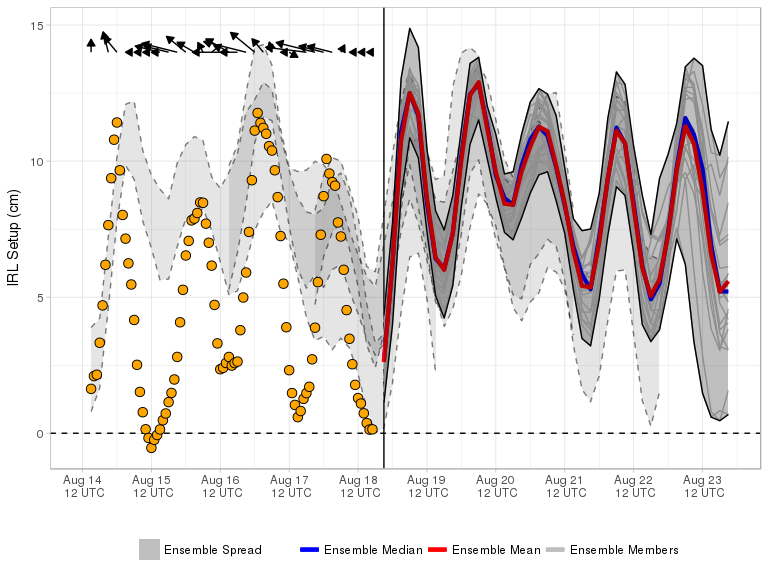
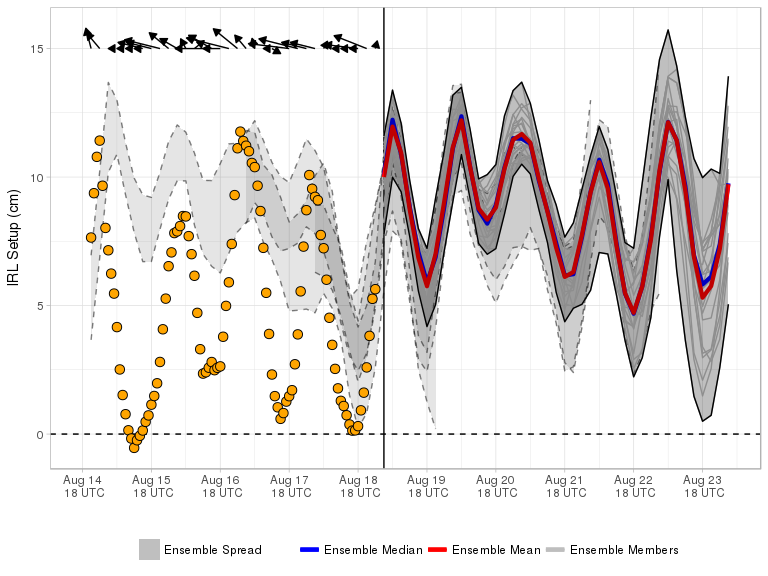
Forecast Update

diff --git a/docs/index.md b/docs/index.md
@@ -1,9 +1,9 @@
-Current Forecast 2018-08-18, Cycle 12 UTC
+Current Forecast 2018-08-18, Cycle 18 UTC
 -----------------------------------------
 
 [![](img/raw_setup.png)](https://fit-winds.github.io/IRLSetup/img/raw_setup.png)
 
-> Forecast valid 2018-08-18 14:21:54.
+> Forecast valid 2018-08-18 20:23:26.
 
 Explanation
 -----------
@@ -23,7 +23,7 @@ Ensemble Forecast System
 cycles. Calculation of the IRL setup is performed shortly after a new
 GEFS cycle is made available on the [data access
 link](http://www.ftp.ncep.noaa.gov/data/nccf/com/gens/prod/). The
-current cycle 2018-08-18 12 UTC 0.5° GEFS mean and median forecasts of
+current cycle 2018-08-18 18 UTC 0.5° GEFS mean and median forecasts of
 setup are represented by the red and blue curves, respectively. Ensemble
 spread from the current and three previous GEFS runs are shaded grey and
 bounded by solid and dashed curves, respectively.
